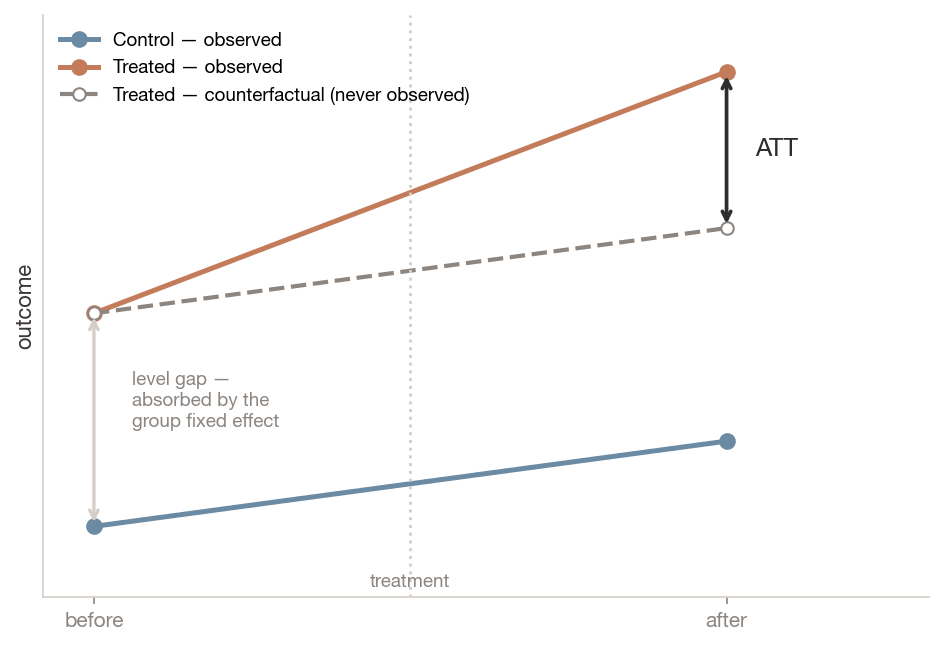
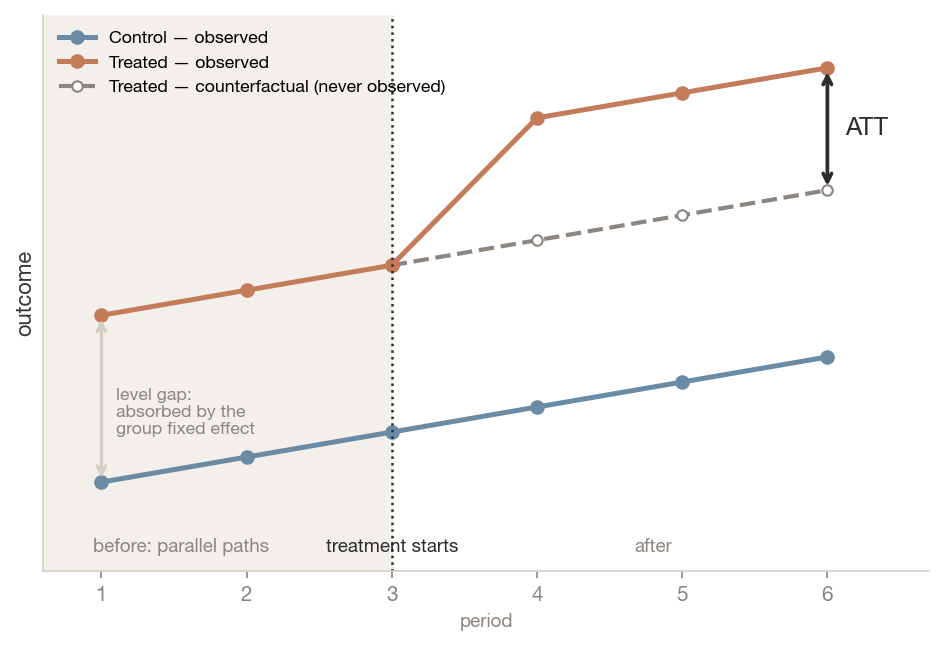
Wed 28 Oct: Pre-11 (the OLS bridge) adds one more student (an outlier: mean, median and line before and after), 'Your line can answer one of two questions' and a poll on it, the typical miss, and the formulas now render; Topic 11 slide 4 says why the standard regression goes wrong, and the parallel-

diff --git a/ch11b-ols-line-of-best-fit/index.html b/ch11b-ols-line-of-best-fit/index.html
@@ -1,10 +1,10 @@
 <!doctype html>
 <html lang="en">
 <head>
-<meta name="deck-build" content="public; speaker notes removed by strip_notes.py; out=efa5530c0fa89867e029d06c0e4e0205">
+<meta name="deck-build" content="public; speaker notes removed by strip_notes.py; out=5b0b86f464e45cbbad30eb1efa6fe290">
   <meta charset="utf-8">
   <meta name="viewport" content="width=device-width, initial-scale=1.0">
-  <title>Predictive Modeling: OLS as the Line of Best Fit</title>
+  <title>Pre-11 · OLS, the Line of Best Fit</title>
 
   <link rel="stylesheet" href="https://cdn.jsdelivr.net/npm/reveal.js@5.1.0/dist/reset.css">
   <link rel="stylesheet" href="https://cdn.jsdelivr.net/npm/reveal.js@5.1.0/dist/reveal.css">
@@ -84,6 +84,17 @@
         </div>
         <div class="footnote">R² = (sum of squares around the mean − sum of squares around the line) ÷ sum of squares around the mean: the share of the mean&rsquo;s squared misses the miles remove.</div>
       </section>
+      <section id="room-outlier" style="padding: 24px 46px;">
+        <h2><i class="fa-solid fa-person-circle-exclamation" style="color: var(--danger-color);"></i> One More Student</h2>
+        <div class="content">
+          <p style="font-size: 13.5pt; line-height: 1.4; margin: 0 0 4px; color: #5d5d5d;">Same points, same line. Now one more student joins: the shortest trip in the room, and it took far longer than anyone else&rsquo;s. Watch the mean and the line.</p>
+          <div class="rt-plot rt-outlier mathjax_ignore tex2jax_ignore"></div>
+          <p class="rt-wait" style="font-size: 15pt; text-align: center; color: var(--muted-color); margin-top: 50px;">Waiting for both numbers from at least 8 of you.</p>
+          <div class="rt-readout mathjax_ignore tex2jax_ignore" style="font-size: 14.5pt; line-height: 1.45; margin-top: 4px;"></div>
+          <span class="fragment rt-step" data-step="1" style="display:none"></span><span class="fragment rt-step" data-step="2" style="display:none"></span>
+        </div>
+        <div class="footnote">The mean and least squares both square the misses, so one far point pulls hard. The median barely moves: Topic 4&rsquo;s breakdown point, now in a regression.</div>
+      </section>
       <section id="room-chance" style="padding: 24px 46px;">
         <h2><i class="fa-solid fa-shuffle" style="color: var(--secondary-color);"></i> Could Chance Do This?</h2>
         <div class="content">
@@ -95,6 +106,53 @@
         <div class="footnote">A permutation test: the share of shuffles at least as big is the p-value for R². Any two points give R² = 1, so R² alone is not evidence.</div>
       </section>
     </section>
+
+    <section id="predict-or-cause" style="padding: 30px 50px;">
+      <h2><i class="fa-solid fa-code-branch" style="color: var(--accent-color);"></i> Your Line Can Answer One of Two Questions</h2>
+      <div class="content mathjax_ignore tex2jax_ignore">
+        <p style="font-size: 14pt; margin: 0 0 12px; color: #5d5d5d;">Your line: minutes &asymp; <span data-rt="a">a</span> + <span data-rt="b">b</span> &times; miles.</p>
+        <div style="display: grid; grid-template-columns: 1fr 1fr; gap: 20px;">
+          <div style="background: #f0f5f8; border-radius: 12px; padding: 16px 22px; border-left: 4px solid var(--secondary-color);">
+            <p style="font-size: 18pt; font-weight: 700; color: var(--secondary-color); margin: 0 0 6px;">&ldquo;What will Y be?&rdquo; &nbsp;&rarr; &nbsp;y&#770;</p>
+            <p style="font-size: 14pt; line-height: 1.5; margin: 0 0 8px;">A new classmate lives <span data-rt="m">a few</span> miles away. Your line guesses <strong><span data-rt="yhat">?</span> minutes</strong>.</p>
+            <p style="font-size: 13pt; line-height: 1.5; margin: 0; color: #444;"><strong>Deliverable:</strong> a predicted value. <strong>Judged by:</strong> the typical miss on people the line has not seen. <strong>Which variables?</strong> Whatever predicts well and is known in time.</p>
+          </div>
+          <div style="background: #fdf0ea; border-radius: 12px; padding: 16px 22px; border-left: 4px solid var(--accent-color);">
+            <p style="font-size: 18pt; font-weight: 700; color: var(--accent-color); margin: 0 0 6px;">&ldquo;What is the effect of X on Y?&rdquo; &nbsp;&rarr; &nbsp;&beta;&#770;</p>
+            <p style="font-size: 14pt; line-height: 1.5; margin: 0 0 8px;">If you moved one mile farther away, would your trip take <strong><span data-rt="b">b</span> more minutes</strong>?</p>
+            <p style="font-size: 13pt; line-height: 1.5; margin: 0; color: #444;"><strong>Deliverable:</strong> a coefficient. <strong>Judged by:</strong> whether it is unbiased. <strong>Which variables?</strong> Whatever the DAG requires, and nothing that sits after the move.</p>
+          </div>
+        </div>
+        <div class="key-result" style="margin-top: 14px;"><p style="font-size: 14.5pt; line-height: 1.5; margin: 0;">Same regression, two jobs. Topic 11 onward (DiD, then IV and RD) is about the right-hand question.</p></div>
+      </div>
+      <div class="footnote">Shmueli (2010), &ldquo;To explain or to predict?&rdquo;; Mullainathan &amp; Spiess (2017) call it a &beta;&#770; problem versus a y&#770; problem. ECON 3916 Topic 12 opens the same way.</div>
+    </section>
+
+    <section>
+      <section id="poll-4">
+        <h2><i class="fa-solid fa-chart-bar" style="color: var(--secondary-color);"></i> Class Poll</h2>
+        <div class="content" style="justify-content: center;">
+          <p style="font-size: 17pt; text-align: center; margin-bottom: 8px;" class="mathjax_ignore tex2jax_ignore"><strong>Your line says each extra mile goes with about <span data-rt="b">b</span> more minutes.</strong></p>
+          <p style="font-size: 15pt; text-align: center; color: var(--muted-color); margin-bottom: 22px;">Which of these can the line do, as it stands?</p>
+          <div class="poll-grid" data-poll-id="ch11b-econ5200-poll-4" style="display: grid; grid-template-columns: 1fr 1fr; gap: 14px; margin-top: 18px; font-size: 15pt;">
+            <div class="poll-option" data-choice="A" style="background: #f0f5f8; padding: 15px 20px; border-radius: 8px; cursor: pointer; transition: all 0.2s; border: 3px solid transparent;"><p style="font-size: 19pt; font-weight: 700; color: var(--secondary-color); margin:0 0 6px;">A</p><p style="font-size: 14pt; margin:0;">Guess how long a new classmate&rsquo;s trip takes, from their miles</p></div>
+            <div class="poll-option" data-choice="B" style="background: #f0f5f8; padding: 15px 20px; border-radius: 8px; cursor: pointer; transition: all 0.2s; border: 3px solid transparent;"><p style="font-size: 19pt; font-weight: 700; color: var(--secondary-color); margin:0 0 6px;">B</p><p style="font-size: 14pt; margin:0;">Tell a classmate that moving a mile farther will add that many minutes</p></div>
+            <div class="poll-option" data-choice="C" style="background: #f0f5f8; padding: 15px 20px; border-radius: 8px; cursor: pointer; transition: all 0.2s; border: 3px solid transparent;"><p style="font-size: 19pt; font-weight: 700; color: var(--secondary-color); margin:0 0 6px;">C</p><p style="font-size: 14pt; margin:0;">Both</p></div>
+            <div class="poll-option" data-choice="D" style="background: #f0f5f8; padding: 15px 20px; border-radius: 8px; cursor: pointer; transition: all 0.2s; border: 3px solid transparent;"><p style="font-size: 19pt; font-weight: 700; color: var(--secondary-color); margin:0 0 6px;">D</p><p style="font-size: 14pt; margin:0;">Neither, until R&sup2; is above 0.9</p></div>
+          </div>
+        <p style="text-align: center; margin-top: 22px;"><span class="timer-badge"><i class="fa-solid fa-clock"></i> 60 seconds &bull; then defend it to a neighbour</span></p>
+        </div>
+      </section>
+      <section id="poll-4-reveal">
+        <h2><i class="fa-solid fa-check-circle" style="color: var(--success-color);"></i> A &mdash; It Predicts</h2>
+        <div class="poll-results-chart" data-poll-id="ch11b-econ5200-poll-4" style="display:flex; gap:20px; align-items:flex-end; justify-content:center; height:150px; margin:10px 60px 22px;"></div>
+        <div class="content">
+          <p style="font-size: 15pt; line-height: 1.55;">A guess for a new classmate only needs the pattern in this room to hold for people like them. B asks what would happen if one thing changed and nothing else did. Miles travel with <strong>how</strong> you come (walk, bus, car) and <strong>where</strong> you can afford to live, and those change the minutes too.</p>
+          <p style="font-size: 15pt; line-height: 1.55; margin-top: 10px;">R&sup2; does not decide it: a line can fit well and still answer B wrongly. Getting B needs a design, and DiD, IV and RD are three of them.</p>
+        </div>
+      </section>
+    </section>
+
 
 
     <section id="learning-objectives">
@@ -155,14 +213,14 @@
         </div>
         <div style="display: grid; grid-template-columns: 1fr 1fr; gap: 20px;">
           <div style="background: #f8f6f3; border-left: 4px solid var(--secondary-color); border-radius: 8px; padding: 14px 18px;">
-            <p style="font-size: 14pt;"><strong>$\mathbf{X}$</strong> &mdash; the <em>design matrix</em>, $n \times (p+1)$. One row per observation, one column per predictor, plus a leading column of ones.</p>
+            <p style="font-size: 14pt;"><strong>\(\mathbf{X}\)</strong> &mdash; the <em>design matrix</em>, \(n \times (p+1)\). One row per observation, one column per predictor, plus a leading column of ones.</p>
           </div>
           <div style="background: #f8f6f3; border-left: 4px solid var(--accent-color); border-radius: 8px; padding: 14px 18px;">
-            <p style="font-size: 14pt;"><strong>$\hat{\beta}_j$</strong> &mdash; a <em>partial effect</em>. The change in $y$ per unit of $x_j$, holding the other columns fixed.</p>
+            <p style="font-size: 14pt;"><strong>\(\hat{\beta}_j\)</strong> &mdash; a <em>partial effect</em>. The change in \(y\) per unit of \(x_j\), holding the other columns fixed.</p>
           </div>
         </div>
         <div style="background: #f5efe9; border-left: 4px solid var(--danger-color); border-radius: 8px; padding: 14px 18px; margin-top: 16px;">
-          <p style="font-size: 14pt;"><strong>Squared, not absolute.</strong> Squaring is what makes the solution linear in $y$ and gives that closed form. It also means one extreme observation moves the line more than fifty ordinary ones &mdash; which is why Chapter 14 spends a section on leverage.</p>
+          <p style="font-size: 14pt;"><strong>Squared, not absolute.</strong> Squaring is what makes the solution linear in \(y\) and gives that closed form. It also means one extreme observation moves the line more than fifty ordinary ones &mdash; which is why Chapter 14 spends a section on leverage.</p>
         </div>
       </div>
     </section>
@@ -172,18 +230,18 @@
       <div class="content">
         <div style="display: grid; grid-template-columns: 1fr 1fr; gap: 24px;">
           <div style="background: #f0f5f8; border-left: 4px solid var(--secondary-color); border-radius: 8px; padding: 18px 22px;">
-            <p style="font-size: 19pt; font-weight: 700; color: var(--secondary-color); font-family: var(--heading-font); margin-bottom: 8px;">$R^2$</p>
-            <p style="font-size: 14pt;">Share of variance in $y$ explained <strong>in-sample</strong>.</p>
+            <p style="font-size: 19pt; font-weight: 700; color: var(--secondary-color); font-family: var(--heading-font); margin-bottom: 8px;">\(R^2\)</p>
+            <p style="font-size: 14pt;">Share of variance in \(y\) explained <strong>in-sample</strong>.</p>
             <p style="font-size: 14pt; margin-top: 8px;">It <strong>cannot decrease</strong> when you add a predictor &mdash; including a column of pure noise. So it can never tell you a variable was a bad idea.</p>
           </div>
           <div style="background: #eef4ee; border-left: 4px solid var(--success-color); border-radius: 8px; padding: 18px 22px;">
             <p style="font-size: 19pt; font-weight: 700; color: var(--success-color); font-family: var(--heading-font); margin-bottom: 8px;">RMSE</p>
-            <p style="font-size: 14pt;">The typical size of a prediction error, <strong>in the units of $y$</strong>.</p>
+            <p style="font-size: 14pt;">The typical size of a prediction error, <strong>in the units of \(y\)</strong>.</p>
             <p style="font-size: 14pt; margin-top: 8px;">Dollars, percentage points, people. Reportable to someone who does not know what a variance is.</p>
           </div>
         </div>
         <div style="background: #f8f6f3; border-left: 4px solid var(--muted-color); border-radius: 8px; padding: 14px 20px; margin-top: 18px;">
-          <p style="font-size: 14pt;"><strong>Why it matters in your Chapter 12.</strong> The first-stage $R^2$ is nearly useless and the first-stage $F$ is what decides whether your instrument is usable at all. That distinction only makes sense once you know what $R^2$ is doing.</p>
+          <p style="font-size: 14pt;"><strong>Why it matters in your Chapter 12.</strong> The first-stage \(R^2\) is nearly useless and the first-stage \(F\) is what decides whether your instrument is usable at all. That distinction only makes sense once you know what \(R^2\) is doing.</p>
         </div>
       </div>
     </section>
@@ -294,7 +352,7 @@
             <div style="background: #f5efe9; border-left: 4px solid var(--danger-color); border-radius: 8px; padding: 13px 16px; margin-bottom: 10px;">
               <p style="font-size: 14pt;">Omit tenure: <strong>&minus;8,412</strong><br>Include it: <strong>&minus;5,907</strong></p>
             </div>
-            <p style="font-size: 14pt;">The gap between them is $\beta_2 \times \delta$ &mdash; exactly, not approximately.</p>
+            <p style="font-size: 14pt;">The gap between them is \(\beta_2 \times \delta\) &mdash; exactly, not approximately.</p>
           </div>
         </div>
         <div style="background: #f5efe9; border-left: 4px solid var(--danger-color); border-radius: 8px; padding: 13px 18px; margin-top: 14px;">
@@ -322,9 +380,9 @@
         <h2><i class="fa-solid fa-check-circle" style="color: var(--success-color);"></i> A &mdash; Biased Upward</h2>
         <div class="poll-results-chart" data-poll-id="ch11b-econ5200-poll-1" style="display:flex; gap:20px; align-items:flex-end; justify-content:center; height:160px; margin:10px 60px 22px;"></div>
         <div class="content">
-          <p style="font-size: 15pt;">Both correlations are positive: motivation raises enrolment, and motivation raises earnings. The bias term $\beta_2 \times \delta$ is positive, so the training coefficient absorbs the motivation effect and reads too high.</p>
+          <p style="font-size: 15pt;">Both correlations are positive: motivation raises enrolment, and motivation raises earnings. The bias term \(\beta_2 \times \delta\) is positive, so the training coefficient absorbs the motivation effect and reads too high.</p>
           <div style="background: #eef4ee; border-left: 4px solid var(--success-color); border-radius: 8px; padding: 14px 20px; margin-top: 14px;">
-            <p style="font-size: 14pt;"><strong>Why D deserves credit.</strong> In the wild you rarely know the sign of $\delta$. &ldquo;Cannot say without more&rdquo; is the right reflex the moment the question stops handing you the correlations.</p>
+            <p style="font-size: 14pt;"><strong>Why D deserves credit.</strong> In the wild you rarely know the sign of \(\delta\). &ldquo;Cannot say without more&rdquo; is the right reflex the moment the question stops handing you the correlations.</p>
           </div>
           <div style="background: #f5efe9; border-left: 4px solid var(--danger-color); border-radius: 8px; padding: 14px 20px; margin-top: 12px;">
             <p style="font-size: 14pt;"><strong>If you said C</strong> &mdash; that is the heteroscedasticity answer: unbiased estimate, wrong standard error. Chapter 14 is organised around keeping those two apart.</p>
@@ -347,7 +405,7 @@
             <p style="font-size: 14pt;"><strong>Ch 11 &mdash; DiD.</strong> The interaction coefficient <em>is</em> the four-means calculation. Regression adds standard errors, nothing conceptual.</p>
           </div>
           <div style="background: #f5efe9; border-left: 4px solid var(--danger-color); border-radius: 8px; padding: 14px 18px;">
-            <p style="font-size: 14pt;"><strong>Ch 12 &mdash; IV.</strong> The first-stage $F$. Here $R^2$ misleads and $F$ decides whether the instrument is usable at all.</p>
+            <p style="font-size: 14pt;"><strong>Ch 12 &mdash; IV.</strong> The first-stage \(F\). Here \(R^2\) misleads and \(F\) decides whether the instrument is usable at all.</p>
           </div>
           <div style="background: #f5efe9; border-left: 4px solid var(--danger-color); border-radius: 8px; padding: 14px 18px;">
             <p style="font-size: 14pt;"><strong>Ch 13 &mdash; RD.</strong> Local linear regression with a kernel weight. No four-means version exists &mdash; weighted least squares or nothing.</p>
@@ -372,7 +430,7 @@
           </div>
           <div style="display: grid; grid-template-columns: 44px 1fr; align-items: start; background: #eef4ee; border-radius: 8px; padding: 14px 18px; border-left: 4px solid var(--success-color);">
             <p style="font-size: 20pt;"><i class="fa-solid fa-ruler" style="color: var(--success-color);"></i></p>
-            <p style="font-size: 14pt;"><strong>$R^2$ and RMSE answer different questions.</strong> One cannot fall when you add noise; the other is in the units your stakeholder thinks in.</p>
+            <p style="font-size: 14pt;"><strong>\(R^2\) and RMSE answer different questions.</strong> One cannot fall when you add noise; the other is in the units your stakeholder thinks in.</p>
           </div>
           <div style="display: grid; grid-template-columns: 44px 1fr; align-items: start; background: #f5efe9; border-radius: 8px; padding: 14px 18px; border-left: 4px solid var(--danger-color);">
             <p style="font-size: 20pt;"><i class="fa-solid fa-triangle-exclamation" style="color: var(--danger-color);"></i></p>
@@ -579,6 +637,24 @@
     s += '<text x="' + ((L + R) / 2) + '" y="' + (H - 2) + '" text-anchor="middle" font-size="14" fill="#555">R² of the line after the miles were shuffled across the room</text>';
     return s + '</svg>';
   }
+  function plotOutlier(P, F, F2, O, step) {
+    var all = P.concat(step >= 1 ? [O] : []);
+    var ymax = Math.max(10, Math.ceil(Math.max.apply(null, all.map(function (p) { return p.y; })) / 20) * 20);
+    var xmax = Math.max(4, Math.ceil(Math.max.apply(null, all.map(function (p) { return p.x; })) / 4) * 4);
+    var X = function (v) { return L + (R - L) * v / xmax; }, Y = function (v) { return B - (B - T) * Math.max(0, Math.min(ymax, v)) / ymax; };
+    var s = axes(xmax, ymax, "miles you came", "minutes to get here", true);
+    var old = step >= 2 ? ' stroke-dasharray="7 5" opacity="0.45"' : '';
+    s += '<line x1="' + L + '" x2="' + R + '" y1="' + Y(F.my) + '" y2="' + Y(F.my) + '" stroke="#2c3e50" stroke-width="2"' + (step >= 2 ? old : ' stroke-dasharray="7 5" opacity="0.7"') + '/>';
+    s += '<line x1="' + X(0) + '" x2="' + X(xmax) + '" y1="' + Y(F.a) + '" y2="' + Y(F.a + F.b * xmax) + '" stroke="#1f6fb2" stroke-width="3"' + old + '/>';
+    if (step >= 2) {
+      s += '<line x1="' + L + '" x2="' + R + '" y1="' + Y(F2.my) + '" y2="' + Y(F2.my) + '" stroke="#b22222" stroke-width="2" stroke-dasharray="7 5"/>';
+      s += '<line x1="' + X(0) + '" x2="' + X(xmax) + '" y1="' + Y(F2.a) + '" y2="' + Y(F2.a + F2.b * xmax) + '" stroke="#b22222" stroke-width="3"/>';
+      s += '<text x="' + (R - 6) + '" y="' + (Y(F2.my) - 8) + '" text-anchor="end" font-size="15" font-weight="700" fill="#b22222">new mean = ' + f1(F2.my) + ' min</text>';
+    }
+    P.forEach(function (p) { s += '<circle cx="' + X(p.x) + '" cy="' + Y(p.y) + '" r="7" fill="#2f4f4f" fill-opacity="0.55"/>'; });
+    if (step >= 1) s += '<circle cx="' + X(O.x) + '" cy="' + Y(O.y) + '" r="11" fill="#b22222" fill-opacity="0.9"/><text x="' + (X(O.x) + 16) + '" y="' + (Y(O.y) + 5) + '" font-size="15" font-weight="700" fill="#b22222">one more student</text>';
+    return s + '</svg>';
+  }
   function stepOf(sec) { return sec ? sec.querySelectorAll(".rt-step.visible").length : 0; }
   function draw(rows) {
     if (rows) rows0 = rows;
@@ -586,7 +662,7 @@
     var F = P.length >= MIN_N ? fit(P) : null;
     [].forEach.call(document.querySelectorAll(".rt-count"), function (e) {
       e.textContent = P.length ? P.length + (practice ? " practice pairs (made up)" : " of you " + (P.length === 1 ? "has" : "have") + " sent both numbers") : ""; });
-    [["room-mean", "mean"], ["room-line", "line"], ["room-chance", "chance"]].forEach(function (pr) {
+    [["room-mean", "mean"], ["room-line", "line"], ["room-outlier", "outlier"], ["room-chance", "chance"]].forEach(function (pr) {
       var sec = document.getElementById(pr[0]); if (!sec) return;
       var host = sec.querySelector(".rt-plot"), out = sec.querySelector(".rt-readout"), wait = sec.querySelector(".rt-wait");
       if (!F || !F.ok) { host.innerHTML = ""; out.innerHTML = ""; if (wait) { wait.style.display = ""; wait.textContent = "Waiting for both numbers from at least " + MIN_N + " of you" + (P.length ? " (" + P.length + " so far)." : ".") + " Q switches on practice numbers."; } return; }
@@ -601,13 +677,35 @@
         host.innerHTML = plotLine(P, F, step, pk);
         var l2 = pk.slice(0, Math.min(step, 3)).map(function (i, k) { var g = F.a + F.b * P[i].x, e = P[i].y - g, e0 = P[i].y - F.my; return "Draw " + (k + 1) + ": " + f1(P[i].x) + " mi, " + f0(P[i].y) + " min. Mean misses by " + f1(e0) + "; the line guesses " + f1(g) + ", misses by " + f1(e); });
         if (step >= 4) l2.push("<strong>Sum of squares: around the mean " + f0(F.ssm) + ", around the line " + f0(F.ssf) + ". R² = (" + f0(F.ssm) + " − " + f0(F.ssf) + ") ÷ " + f0(F.ssm) + " = " + f2(F.r2) + "</strong>",
+                               "Typical miss (root of the average squared miss): the mean " + f1(Math.sqrt(F.ssm / F.n)) + " min, the line " + f1(Math.sqrt(F.ssf / F.n)) + " min.",
                                "Line: minutes ≈ " + f1(F.a) + " + " + f1(F.b) + " × miles. Each extra mile " + (F.b >= 0 ? "adds about " + f1(F.b) : "takes off about " + f1(-F.b)) + " minutes.");
         out.innerHTML = (l2.join("<br>") || "Click to draw the same students again.") + tag;
+      } else if (pr[1] === "outlier") {
+        var xs = P.map(function (p) { return p.x; }), ys = P.map(function (p) { return p.y; });
+        var O = { x: Math.min.apply(null, xs), y: Math.min(180, Math.max(Math.round(2.5 * Math.max.apply(null, ys)), Math.max.apply(null, ys) + 30)) };
+        var F2 = fit(P.concat([O]));
+        host.innerHTML = plotOutlier(P, F, F2, O, step);
+        var med = function (a) { var s = a.slice().sort(function (u, v) { return u - v; }), k = s.length; return k % 2 ? s[(k - 1) / 2] : (s[k / 2 - 1] + s[k / 2]) / 2; };
+        var rm = function (G) { return Math.sqrt(G.ssf / G.n); };
+        var l3 = [];
+        if (step === 0) l3.push("Your points, your mean and your line, as on the last slide. Click to add one more student.");
+        if (step >= 1) l3.push("One more student: " + f1(O.x) + " mi, " + f0(O.y) + " min: an outlier we made up, so nobody in the room is singled out.");
+        if (step >= 2) l3.push("<strong>Mean: " + f1(F.my) + " &rarr; " + f1(F2.my) + " min. Median: " + f1(med(ys)) + " &rarr; " + f1(med(ys.concat([O.y]))) + " min.</strong>",
+                               "<strong>Slope: " + f1(F.b) + " &rarr; " + f1(F2.b) + " min per mile</strong>; intercept " + f1(F.a) + " &rarr; " + f1(F2.a) + ".",
+                               "R&sup2;: " + f2(F.r2) + " &rarr; " + f2(F2.r2) + ". Typical miss of the line: " + f1(rm(F)) + " &rarr; " + f1(rm(F2)) + " min.");
+        out.innerHTML = l3.join("<br>") + tag;
       } else {
         var R2s = shuffles(P, F), ge = R2s.filter(function (v) { return v >= F.r2; }).length;
         host.innerHTML = plotChance(F, R2s);
         out.innerHTML = "<strong>" + ge + " of 1,000</strong> shuffles reached R² ≥ " + f2(F.r2) + ": p " + (ge === 0 ? "below 0.001" : "≈ " + (ge / 1000).toFixed(3)) + "." + tag;
       }
+    });
+    [].forEach.call(document.querySelectorAll("[data-rt]"), function (e) {   // the room's line, in words, on predict-or-cause and poll-4
+      if (!e.hasAttribute("data-rt0")) e.setAttribute("data-rt0", e.textContent);
+      if (!F || !F.ok) { e.textContent = e.getAttribute("data-rt0"); return; }
+      var xs = P.map(function (p) { return p.x; }).sort(function (u, v) { return u - v; }), m0 = Math.max(1, Math.round(xs[Math.floor(xs.length / 2)]));
+      var k = e.getAttribute("data-rt");
+      e.textContent = k === "a" ? f1(F.a) : k === "b" ? f1(F.b) : k === "m" ? String(m0) : k === "yhat" ? f0(F.a + F.b * m0) : e.textContent;
     });
   }
   window.RoomTrip = { pairs: pairs, fit: fit, paint: function (rows) { draw(rows); } };
@@ -621,7 +719,7 @@
     for (var i = 0; i < keys.length; i++) { if (pairs(by[keys[i]]).length >= MIN_N) { pick = keys[i]; break; } }
     return by[pick] || [];
   }
-  var HERE = ["room-trip", "room-mean", "room-line", "room-chance"];
+  var HERE = ["room-trip", "room-mean", "room-line", "room-outlier", "room-chance", "predict-or-cause", "poll-4"];
   function onRoom() { var s = window.Reveal && Reveal.getCurrentSlide && Reveal.getCurrentSlide(); return !!(s && HERE.indexOf(s.id) >= 0); }
   function fetchRows() {
     if (location.protocol === "file:") return;

diff --git a/ch11-identification-did/index.html b/ch11-identification-did/index.html
@@ -1,7 +1,7 @@
 <!doctype html>
 <html lang="en">
 <head>
-<meta name="deck-build" content="public; speaker notes removed by strip_notes.py; out=7f562403dd2878de7b9b9e37da5e757f">
+<meta name="deck-build" content="public; speaker notes removed by strip_notes.py; out=3c4b24cf27d9601026f8da10bb0a5964">
   <meta charset="utf-8">
   <meta name="viewport" content="width=device-width, initial-scale=1.0">
   <title>Identification Strategy & Difference-in-Differences</title>
@@ -83,22 +83,23 @@
       </section>
 
       <section id="hook" style="padding: 38px 60px;">
-        <h2><i class="fa-solid fa-triangle-exclamation" style="color: var(--danger-color);"></i> The Regression That Misleads</h2>
-        <p class="text-lg" style="margin-top: 14px;">You evaluate a policy that helped <strong>everyone it touched</strong>. Clean panel, staggered rollout across states, and the standard specification since the early 1990s: outcome on a treatment indicator with unit and time fixed effects.</p>
-        <div style="display: grid; grid-template-columns: 1fr 1fr; gap: 18px; margin-top: 18px;">
-          <div style="background: #f8f6f3; border-left: 4px solid var(--muted-color); border-radius: 8px; padding: 16px 20px;">
+        <h2><i class="fa-solid fa-triangle-exclamation" style="color: var(--danger-color);"></i> A Standard Regression That Gets It Wrong</h2>
+        <p class="text-lg" style="margin-top: 14px;">A policy starts in different states in different years, and it <strong>helps every state it reaches</strong>. We know the true average effect, because we built the data.</p>
+        <div style="display: grid; grid-template-columns: 1fr 1fr; gap: 18px; margin-top: 16px;">
+          <div style="background: #f8f6f3; border-left: 4px solid var(--muted-color); border-radius: 8px; padding: 14px 20px;">
             <p style="font-size: 13pt; color: var(--muted-color); text-transform: uppercase; letter-spacing: 2px;">The truth</p>
             <p style="font-size: 30pt; font-weight: 700; color: var(--primary-color);">+8.65</p>
           </div>
-          <div class="fragment fade-up" style="background: #f7efee; border-left: 4px solid var(--danger-color); border-radius: 8px; padding: 16px 20px;">
-            <p style="font-size: 13pt; color: var(--danger-color); text-transform: uppercase; letter-spacing: 2px;">What the regression reports</p>
+          <div class="fragment fade-up" style="background: #f7efee; border-left: 4px solid var(--danger-color); border-radius: 8px; padding: 14px 20px;">
+            <p style="font-size: 13pt; color: var(--danger-color); text-transform: uppercase; letter-spacing: 2px;">The usual regression reports</p>
             <p style="font-size: 30pt; font-weight: 700; color: var(--danger-color);">+4.70 <span style="font-size: 14pt; font-weight: 400;">(SE 0.27)</span></p>
+            <p style="font-size: 12.5pt; color: #5d5d5d; margin-top: 4px;">Outcome on &ldquo;treated yet?&rdquo; with state and year fixed effects. About half the truth, and it looks precise.</p>
           </div>
         </div>
-        <div class="fragment fade-up" style="background: #f7efee; border-radius: 8px; padding: 14px 22px; margin-top: 16px;">
-          <p style="font-size: 15pt;">Nothing is wrong with the data or the code. <strong>The truth is more than fourteen standard errors away.</strong> And when every unit is eventually treated &mdash; which describes a great many real rollouts &mdash; the same specification returns <strong style="color: var(--danger-color);">&minus;0.97</strong> for a policy whose true effect is <strong>+9.56</strong>.</p>
+        <div class="fragment fade-up" style="background: #f7efee; border-radius: 8px; padding: 12px 22px; margin-top: 14px;">
+          <p style="font-size: 14.5pt; line-height: 1.5;"><strong>Why:</strong> to judge the states treated later, it uses states treated <em>earlier</em> as the comparison, and those states are still changing from their own treatment. If every state is eventually treated, it gets worse: <strong style="color: var(--danger-color);">&minus;0.97</strong> for a true effect of <strong>+9.56</strong>, the wrong sign.</p>
         </div>
-        <p class="fragment fade-up text-lg" style="margin-top: 14px; color: var(--accent-color); font-weight: 700;">Today's main point: identification is an argument, not a function call.</p>
+        <p class="fragment fade-up text-lg" style="margin-top: 12px; color: var(--accent-color); font-weight: 700;">Today: before you trust a regression, ask which comparisons it makes.</p>
       </section>
 
       <section class="section-divider" data-state="is-section-divider" id="divider-canonical">

diff --git a/v/index.html b/v/index.html
@@ -85,8 +85,10 @@
     var h2 = sec && sec.querySelector("h2");
     var title = h2 ? clean(h2.cloneNode(true)).textContent.replace(/\s+/g, " ").trim() : "Poll";
     var prompt = document.createElement("div"); prompt.className = "prompt";
+    var multi = !grid && !!sec && sec.querySelectorAll(".poll-number[data-poll-voting][data-poll-id]").length > 1;
     if (sec) [].forEach.call(sec.querySelectorAll("p"), function (p) {
       if (p.closest(".poll-grid, aside, .poll-results-chart") || !p.textContent.trim()) return;
+      if (multi && p.parentNode && p.parentNode.querySelector(".poll-number[data-poll-voting]")) return;   // a box's own label: shown above that box
       if (p.compareDocumentPosition(box) & Node.DOCUMENT_POSITION_FOLLOWING || box.contains(p)) {
         if (!box.contains(p) && prompt.children.length < 3) prompt.appendChild(clean(p.cloneNode(true)));
       }
@@ -131,10 +133,18 @@
       go.innerHTML = 'This question is answered on the slide itself. <a href="' + slideLink + '"><strong>Open the slide to answer</strong></a>';
       app.appendChild(go);
     } else {                                       // typed number: poll.js draws the box and Send
-      var wrap = document.createElement("div"); wrap.className = "other";
-      var mine = document.importNode(box, true);
-      mine.removeAttribute("style");
-      wrap.appendChild(mine); app.appendChild(wrap);
+      // every typed box on the slide, in slide order, each under its own label (3916 T12 room-trip asks
+      // minutes, miles and initials on one slide; linking only the first left the room's pairs unmatched)
+      var boxes = sec ? [].slice.call(sec.querySelectorAll(".poll-number[data-poll-voting][data-poll-id]")) : [];
+      if (boxes.indexOf(box) < 0) boxes = [box];
+      boxes.forEach(function (bx) {
+        var wrap = document.createElement("div"); wrap.className = "other";
+        var lab = boxes.length > 1 && bx.parentNode && bx.parentNode.querySelector("p");
+        if (lab) wrap.appendChild(clean(lab.cloneNode(true)));
+        var mine = document.importNode(bx, true);
+        mine.removeAttribute("style");
+        wrap.appendChild(mine); app.appendChild(wrap);
+      });
     }
     app.appendChild(status);
     var foot = document.createElement("p"); foot.className = "foot";

diff --git a/poll.js b/poll.js
@@ -1180,7 +1180,8 @@
     return {
       min: +attr(el, "data-min", 0), max: +attr(el, "data-max", 1e9),
       unit: attr(el, "data-unit", ""), step: attr(el, "data-step", ""),
-      arms: el.getAttribute("data-arm") === "nuid-parity"
+      arms: el.getAttribute("data-arm") === "nuid-parity",
+      initials: el.getAttribute("data-kind") === "initials"
     };
   }
   function fmtNum(x, dp) {
@@ -1197,7 +1198,8 @@
     var room = PROJECTOR || SPEAKER;
     el.innerHTML =
       '<div class="ec-num-row">' +
-        '<input class="ec-num-in" type="text" inputmode="decimal" autocomplete="off" maxlength="9"' +
+        '<input class="ec-num-in" type="text" inputmode="' + (o.initials ? "text" : "decimal") + '" autocomplete="off" maxlength="' + (o.initials ? 6 : 9) + '"' +
+          (o.initials ? ' autocapitalize="characters" spellcheck="false"' : "") +
           ' placeholder="' + esc(attr(el, "data-placeholder", room ? "typed on phones" : "")) + '"' +
           (room ? " disabled" : "") + ">" +
         (o.unit ? '<span class="ec-num-unit">' + esc(o.unit) + "</span>" : "") +
@@ -1223,6 +1225,11 @@
     function submit() {
       if (sent) return;
       var raw = String(input.value).replace(/[,\s]/g, "");
+      if (o.initials) {                  // data-kind="initials": 1-3 letters ("J.K." is fine), stored upper-case as the choice text
+        var ini = raw.replace(/\./g, "").toUpperCase();
+        if (!/^[A-Z]{1,3}$/.test(ini)) { st.textContent = "Type your initials: one to three letters."; input.focus(); return; }
+        return send(ini, ini);
+      }
       var n = Number(raw);
       if (raw === "" || !isFinite(n) || n < o.min || n > o.max) {
         st.textContent = "Type one number from " + fmtNum(o.min) + " to " + fmtNum(o.max) +
@@ -1236,6 +1243,9 @@
         if (!nuid() && !armDevice) { armDevice = true; applyArms(); }   // ready() has run: no NUID = skipped
         choice = arm().charAt(0) + (nuid() ? "" : "*") + ":" + val;
       }
+      send(val, choice);
+    }
+    function send(val, choice) {
       sent = true; lock(true); input.blur();
       if (IS_FILE) {
         (numLocal[pid] = numLocal[pid] || []).push({ choice: choice, voter_id: deviceId(),
